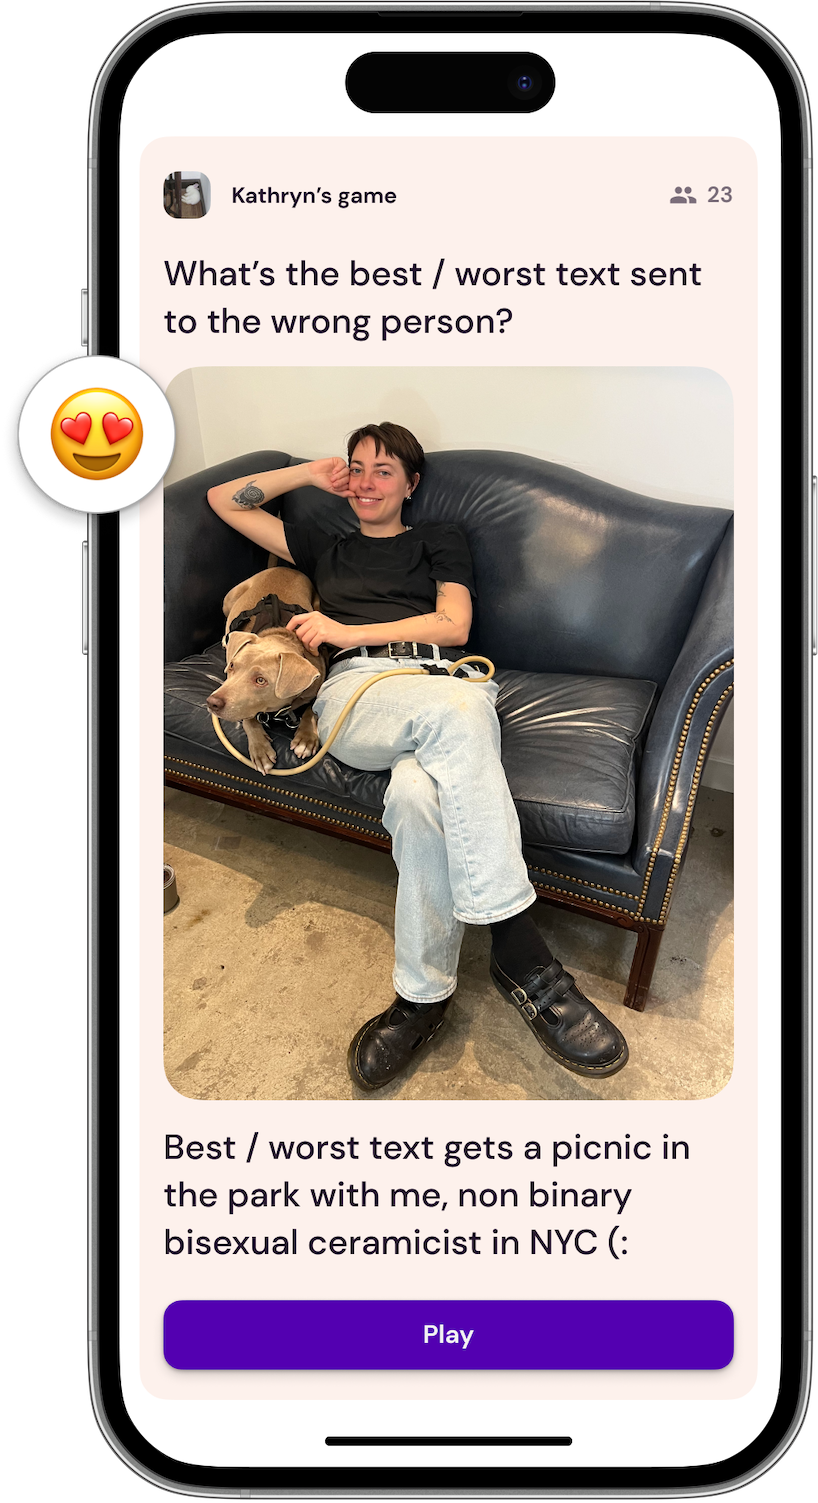
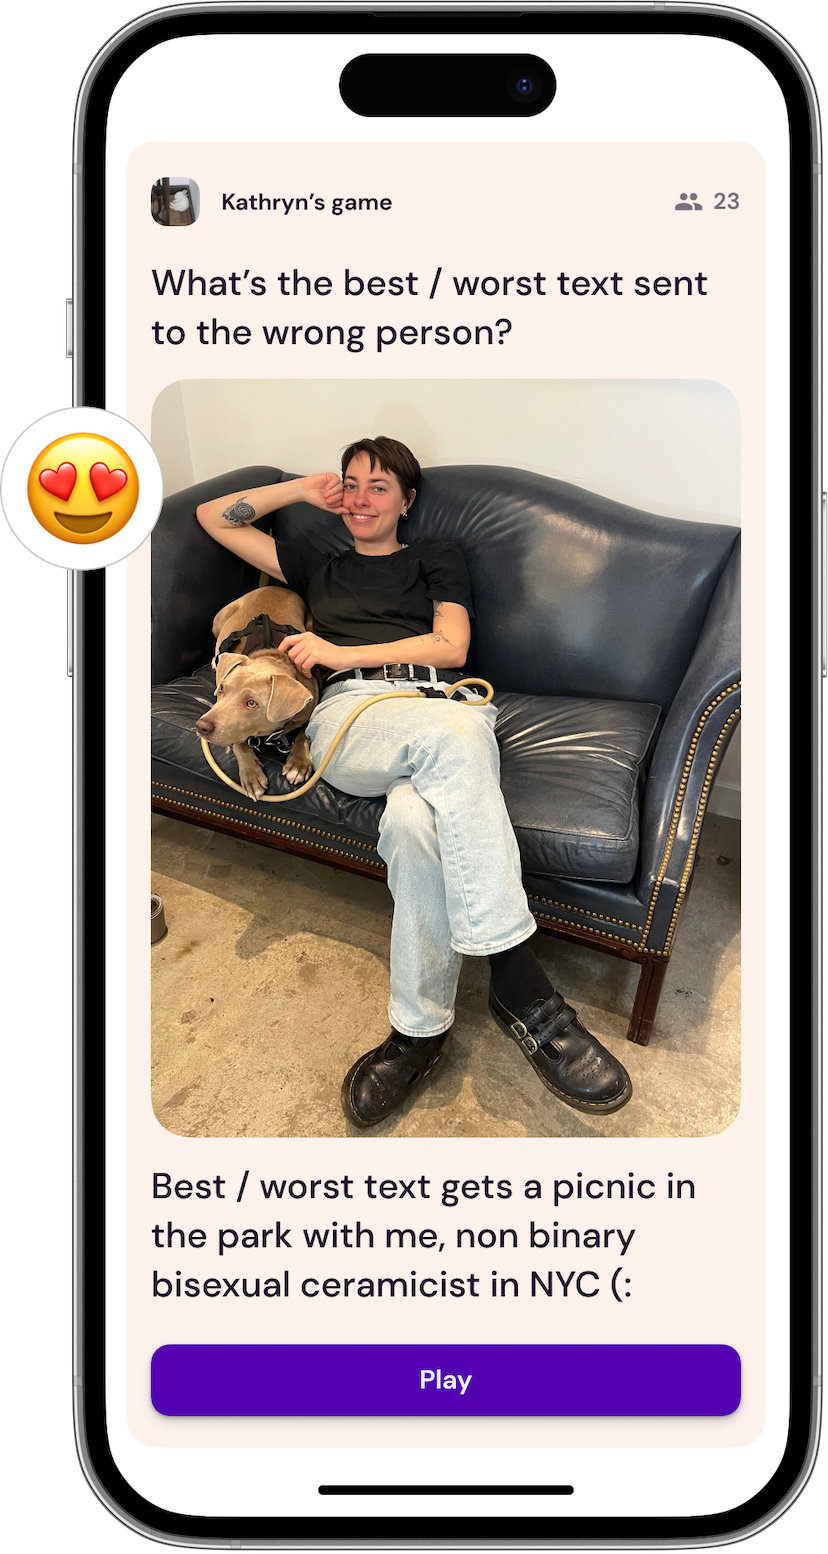
add waitlist button, update images

diff --git a/index.html b/index.html
@@ -46,6 +46,18 @@
      .boxes {
       gap: 3rem!important;
      }
+     .btn-lg {
+      padding: 1.25rem 2.5rem;
+      border-radius: 1.5rem;
+     }
+     .btn-primary {
+      background-color: #5300B1;
+      border-color: #5300B1;
+     }
+     .btn-primary:hover {
+      background-color: #460095;
+      border-color: #460095;
+     }
    
 
     </style>
@@ -65,14 +77,16 @@
                 <img src="assets/Play-app-icon.svg" alt="Play app icon" class="d-block logo">
                 <h1 class="mt-4 mt-lg-5">Make games. Play games.</h1>
                 <h1 class="mb-4 mb-lg-5" style="color: #7a7a7a;">A new kind of social space.</h1>
-                <a href="https://apple.com/xyz"><img src="assets/Download_on_the_App_Store_Badge_US-UK_RGB_blk_092917.svg" alt="Apple store badge" class="d-inline-block" style="height: 55px"></a>
+                <!-- <a href="https://apple.com/xyz"><img src="assets/Download_on_the_App_Store_Badge_US-UK_RGB_blk_092917.svg" alt="Apple store badge" class="d-inline-block" style="height: 55px"></a> -->
+                <a class="btn btn-lg btn-primary" href="mailto:contact@itsplay.app">Join the waitlist</a>
+
               </div>
               
               <div class="col-sm-8 offset-sm-2 col-md-6 offset-md-3 col-lg-4 offset-lg-0 col-xl-3">
                 <img src="assets/game-example-1b.png" alt="example game" class="img-fluid screenshot" />
               </div>
               <div class="col-xl-3 d-none d-xl-flex">
-                <img src="assets/game-example-2.png" alt="example game" class="img-fluid screenshot" />
+                <img src="assets/game-example-2b.png" alt="example game 2" class="img-fluid screenshot" />
               </div>
             </div>
         </div>
